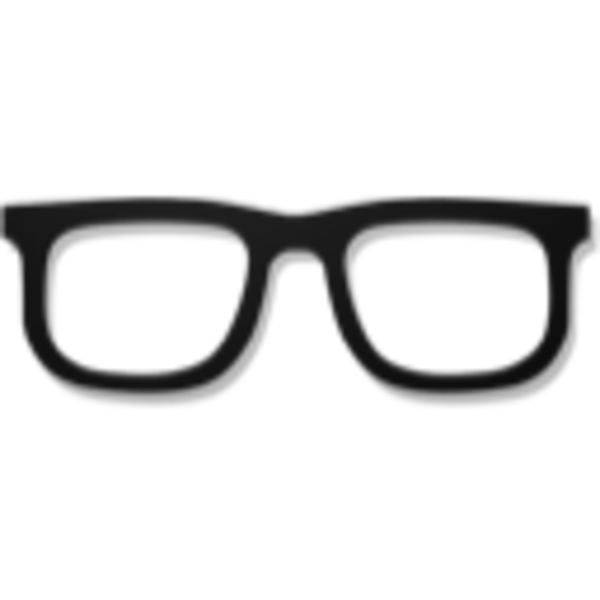
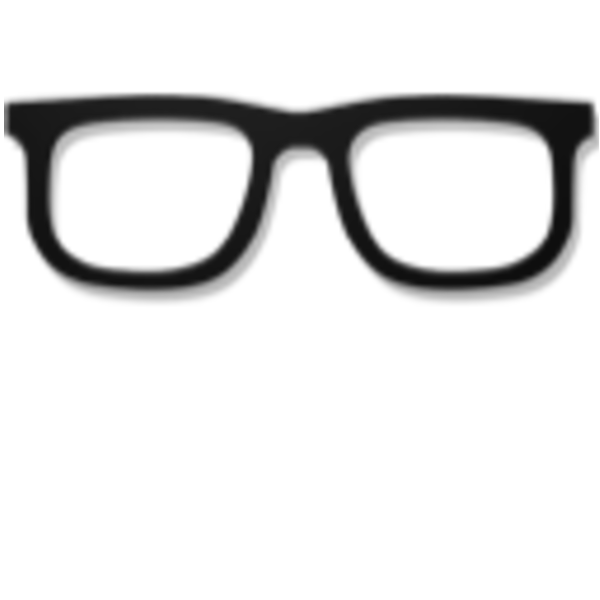
adding moustache filter

Changed region(s): [[0.0, 0.15, 1.0, 0.69]]

diff --git a/FaceAnalysis/MainPage.xaml b/FaceAnalysis/MainPage.xaml
@@ -22,6 +22,7 @@
                     The image along with any detected faces will be displayed.
                 </TextBlock>
                 <Button Name="AddFilter"  Content="AddFilter" Click="AddFilter_Click"/>
+                <Button Name="AddMush"  Content="AddMush" Click="AddMush_Click"/>
                 <Button Name="GuessAge" Content="GuessAge" Click="GuessAge_Click"/>
                 <Button Name="Clear" Content="Clear" Click="Clear_Click"/>
             </StackPanel>

diff --git a/FaceAnalysis/MainPage.xaml.cs b/FaceAnalysis/MainPage.xaml.cs
@@ -30,8 +30,7 @@ namespace PhotoEditor
     /// Page for demonstrating FaceDetection on an image file.
     /// </summary>
     public sealed partial class MainPage : Page
-    {
-        private Random rand;
+    {        
         /// <summary>
         /// Brush for drawing the bounding box around each detected face.
         /// </summary>
@@ -75,7 +74,6 @@ namespace PhotoEditor
         public MainPage()
         {
             this.InitializeComponent();
-            rand = new Random();
         }
 
         /// <summary>
@@ -124,17 +122,17 @@ namespace PhotoEditor
 
                     if (filter != null)
                     {
-                        Rectangle glasses = new Rectangle();
-                        glasses.Width = (uint)(face.FaceBox.Width / widthScale);
-                        glasses.Height = (uint)(face.FaceBox.Height / heightScale);
+                        Rectangle filterPicture = new Rectangle();
+                        filterPicture.Width = (uint)(face.FaceBox.Width / widthScale);
+                        filterPicture.Height = (uint)(face.FaceBox.Height / heightScale);
                         
                         BitmapImage bit = new BitmapImage(new Uri(this.BaseUri, filter));
                         ImageBrush pic = new ImageBrush();
-                        pic.Stretch = Stretch.Fill;
+                        //pic.Stretch = Stretch.Fill;
                         pic.ImageSource = bit;
-                        glasses.Fill = pic;
-                        glasses.Margin = new Thickness((uint)(face.FaceBox.X / widthScale), (uint)(face.FaceBox.Y / heightScale), 0, 0);
-                        this.PhotoCanvas.Children.Add(glasses);
+                        filterPicture.Fill = pic;
+                        filterPicture.Margin = new Thickness((uint)(face.FaceBox.X / widthScale), (uint)(face.FaceBox.Y / heightScale), 0, 0);
+                        this.PhotoCanvas.Children.Add(filterPicture);
                     }
 
 
@@ -172,13 +170,7 @@ namespace PhotoEditor
             }
 
             //this.rootPage.NotifyUser(message, NotifyType.StatusMessage);
-        }
-
-        private int GetAge(DetectedFace face)
-        {
-            int rInt = rand.Next(2, 85); //for ints            
-            return rInt;
-        }
+        }     
 
 
 
@@ -347,9 +339,22 @@ namespace PhotoEditor
                     StorageFile file = await content.GetFileAsync("glasses.png");
                     this.SetupVisualization(displaySource, faces, file.Path);
                 }
-            }         
-            
+            }
+        }
 
+        private async void AddMush_Click(object sender, RoutedEventArgs e)
+        {
+            var currentAppPackage = Windows.ApplicationModel.Package.Current;
+            foreach (var package in currentAppPackage.Dependencies)
+            {
+                if (package.IsOptional && package.Id.FamilyName.Contains("FabrikamFaceFilters"))
+                {
+                    StorageFolder installFolder = package.InstalledLocation;
+                    StorageFolder content = await installFolder.GetFolderAsync("Content");
+                    StorageFile file = await content.GetFileAsync("moustache.png");
+                    this.SetupVisualization(displaySource, faces, file.Path);
+                }
+            }
         }
 
         delegate Int32 CodeDelegate();
@@ -367,7 +372,7 @@ namespace PhotoEditor
 
                         if (handle == IntPtr.Zero)
                         {
-                            //await new MessageDialog("Optional Package failed to load").ShowAsync();
+                            //Optional Package failed to load
                         }
                         else
                         {
@@ -387,11 +392,6 @@ namespace PhotoEditor
             }
             return age;
         }
-        private void GuessAge_Click(object sender, RoutedEventArgs e)
-        {
-            this.ClearVisualization();
-            this.SetupVisualization(displaySource, faces, null, true);
-        }
 
         #region Interop
         [DllImport("kernel32", EntryPoint = "LoadPackagedLibrary", SetLastError = true)]
@@ -400,6 +400,13 @@ namespace PhotoEditor
         [DllImport("kernel32", CharSet = CharSet.Ansi, ExactSpelling = true, SetLastError = true)]
         static extern IntPtr GetProcAddress(IntPtr hModule, string procName);
         #endregion
+        private void GuessAge_Click(object sender, RoutedEventArgs e)
+        {
+            this.ClearVisualization();
+            this.SetupVisualization(displaySource, faces, null, true);
+        }
+
+        
 
         private void Clear_Click(object sender, RoutedEventArgs e)
         {
